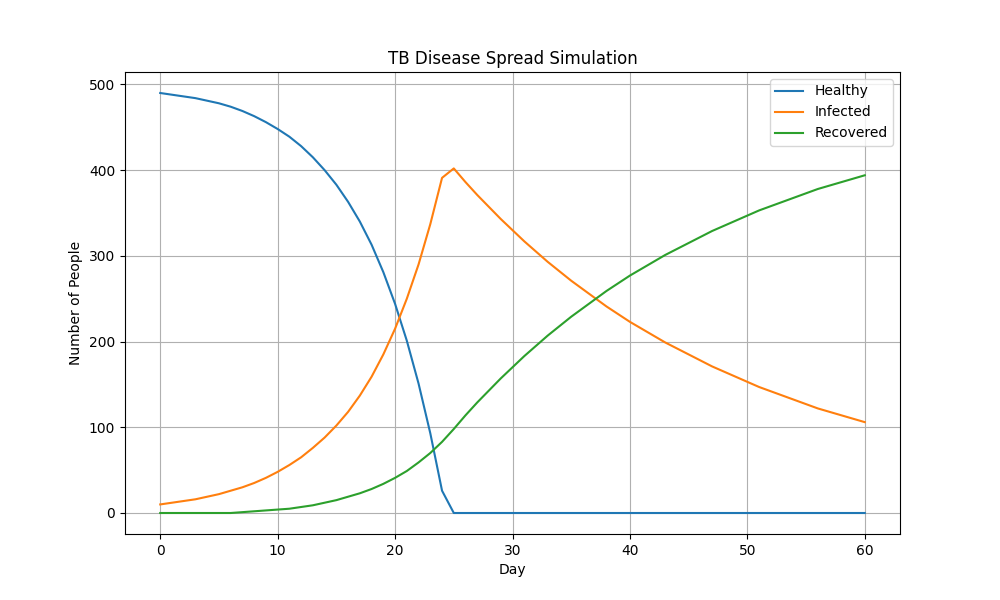
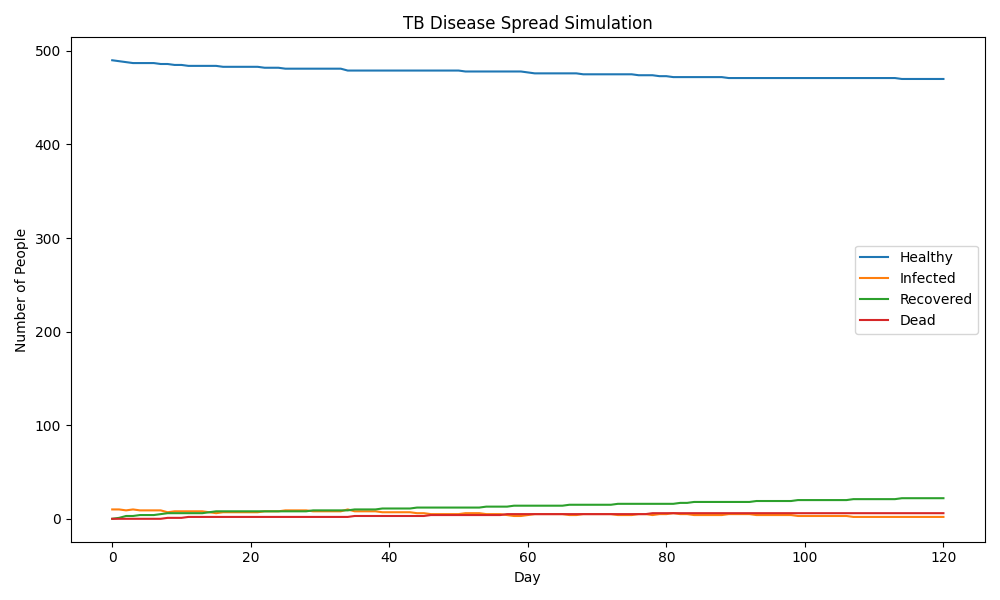
Fix simulation function for live deployment

diff --git a/src/simulation.py b/src/simulation.py
@@ -1,131 +1,140 @@
-import numpy as np
 import pandas as pd
+import numpy as np
 import matplotlib.pyplot as plt
 from pathlib import Path
-
-# Output paths
-PROCESSED_DATA_DIR = Path("data/processed")
-REPORT_DIR = Path("report")
-
-PROCESSED_DATA_DIR.mkdir(parents=True, exist_ok=True)
-REPORT_DIR.mkdir(parents=True, exist_ok=True)
-
-OUTPUT_CSV = PROCESSED_DATA_DIR / "tb_simulation_results.csv"
-OUTPUT_CHART = REPORT_DIR / "tb_simulation_chart.png"
 
 
 def run_tb_simulation(
     population_size=500,
     initial_infected=10,
-    days=60,
+    days=120,
     infection_rate=0.08,
     recovery_rate=0.04,
+    death_rate=0.01,
     mask_effect=0.40,
     lockdown_effect=0.30,
     hospital_crowd_effect=0.20,
     seed=42
 ):
     """
-    Simple educational TB spread simulation.
+    TB disease spread simulation.
 
-    Status:
-    0 = Healthy
-    1 = Infected
-    2 = Recovered / Treated
+    This function is used by both:
+    1. Simulation page
+    2. Live Visual Simulation page
 
-    This is a simplified simulation for learning purposes.
-    Real TB spread depends on many medical, social, and environmental factors.
+    It returns the same final infected, recovered, and dead numbers
+    for both pages.
     """
 
-    np.random.seed(seed)
+    rng = np.random.default_rng(seed)
 
     healthy = population_size - initial_infected
     infected = initial_infected
     recovered = 0
+    dead = 0
+    total_ever_infected = initial_infected
 
     results = []
 
     for day in range(days + 1):
+
         results.append({
             "day": day,
             "healthy": healthy,
             "infected": infected,
-            "recovered": recovered
+            "recovered": recovered,
+            "dead": dead,
+            "daily_new_infections": 0 if day == 0 else daily_new_infections,
+            "daily_recoveries": 0 if day == 0 else daily_recoveries,
+            "daily_deaths": 0 if day == 0 else daily_deaths,
+            "total_population": population_size,
+            "total_ever_infected": total_ever_infected
         })
 
+        if day == days:
+            break
+
+        if infected <= 0 or healthy <= 0:
+            daily_new_infections = 0
+        else:
+            intervention_factor = (1 - mask_effect) * (1 - lockdown_effect)
+            crowd_factor = 1 + hospital_crowd_effect
+
+            infection_probability = (
+                infection_rate *
+                (infected / population_size) *
+                intervention_factor *
+                crowd_factor
+            )
+
+            infection_probability = min(max(infection_probability, 0), 0.35)
+
+            daily_new_infections = rng.binomial(healthy, infection_probability)
+
         if infected <= 0:
-            continue
+            daily_recoveries = 0
+            daily_deaths = 0
+        else:
+            daily_deaths = rng.binomial(infected, min(max(death_rate, 0), 1))
 
-        # Lockdown reduces contact between people
-        effective_contact_rate = infection_rate * (1 - lockdown_effect)
+            remaining_infected_after_death = infected - daily_deaths
 
-        # Masks reduce transmission
-        effective_contact_rate = effective_contact_rate * (1 - mask_effect)
+            if remaining_infected_after_death <= 0:
+                daily_recoveries = 0
+            else:
+                daily_recoveries = rng.binomial(
+                    remaining_infected_after_death,
+                    min(max(recovery_rate, 0), 1)
+                )
 
-        # Hospital crowding increases transmission risk
-        effective_contact_rate = effective_contact_rate * (1 + hospital_crowd_effect)
+        healthy = healthy - daily_new_infections
+        infected = infected + daily_new_infections - daily_recoveries - daily_deaths
+        recovered = recovered + daily_recoveries
+        dead = dead + daily_deaths
+        total_ever_infected = total_ever_infected + daily_new_infections
 
-        # New infections depend on number of infected and healthy people
-        possible_new_infections = int(infected * effective_contact_rate * 5)
-
-        new_infections = min(possible_new_infections, healthy)
-
-        # Recovery / treatment
-        new_recoveries = int(infected * recovery_rate)
-        new_recoveries = min(new_recoveries, infected)
-
-        # Update counts
-        healthy -= new_infections
-        infected += new_infections
-        infected -= new_recoveries
-        recovered += new_recoveries
+        healthy = max(0, healthy)
+        infected = max(0, infected)
+        recovered = max(0, recovered)
+        dead = max(0, dead)
 
     return pd.DataFrame(results)
 
 
-def create_simulation_chart(results_df):
-    """
-    Create and save line chart for simulation.
-    """
+def save_simulation_outputs():
+    output_dir = Path("data/processed")
+    report_dir = Path("report")
+
+    output_dir.mkdir(parents=True, exist_ok=True)
+    report_dir.mkdir(parents=True, exist_ok=True)
+
+    results_df = run_tb_simulation()
+
+    csv_path = output_dir / "tb_simulation_results.csv"
+    chart_path = report_dir / "tb_simulation_chart.png"
+
+    results_df.to_csv(csv_path, index=False)
 
     plt.figure(figsize=(10, 6))
     plt.plot(results_df["day"], results_df["healthy"], label="Healthy")
     plt.plot(results_df["day"], results_df["infected"], label="Infected")
     plt.plot(results_df["day"], results_df["recovered"], label="Recovered")
-
-    plt.title("TB Disease Spread Simulation")
+    plt.plot(results_df["day"], results_df["dead"], label="Dead")
     plt.xlabel("Day")
     plt.ylabel("Number of People")
+    plt.title("TB Disease Spread Simulation")
     plt.legend()
-    plt.grid(True)
-
-    plt.savefig(OUTPUT_CHART)
+    plt.tight_layout()
+    plt.savefig(chart_path)
     plt.close()
+
+    print("Simulation completed successfully!")
+    print(f"Results saved to: {csv_path}")
+    print(f"Chart saved to: {chart_path}")
+    print(results_df.tail())
 
 
 if __name__ == "__main__":
     print("Running TB Disease Spread Simulation...")
-
-    simulation_results = run_tb_simulation(
-        population_size=500,
-        initial_infected=10,
-        days=60,
-        infection_rate=0.08,
-        recovery_rate=0.04,
-        mask_effect=0.40,
-        lockdown_effect=0.30,
-        hospital_crowd_effect=0.20
-    )
-
-    simulation_results.to_csv(OUTPUT_CSV, index=False)
-    create_simulation_chart(simulation_results)
-
-    print("Simulation completed successfully!")
-    print(f"Results saved to: {OUTPUT_CSV}")
-    print(f"Chart saved to: {OUTPUT_CHART}")
-
-    print("\nFirst 5 rows:")
-    print(simulation_results.head())
-
-    print("\nLast 5 rows:")
-    print(simulation_results.tail())
+    save_simulation_outputs()